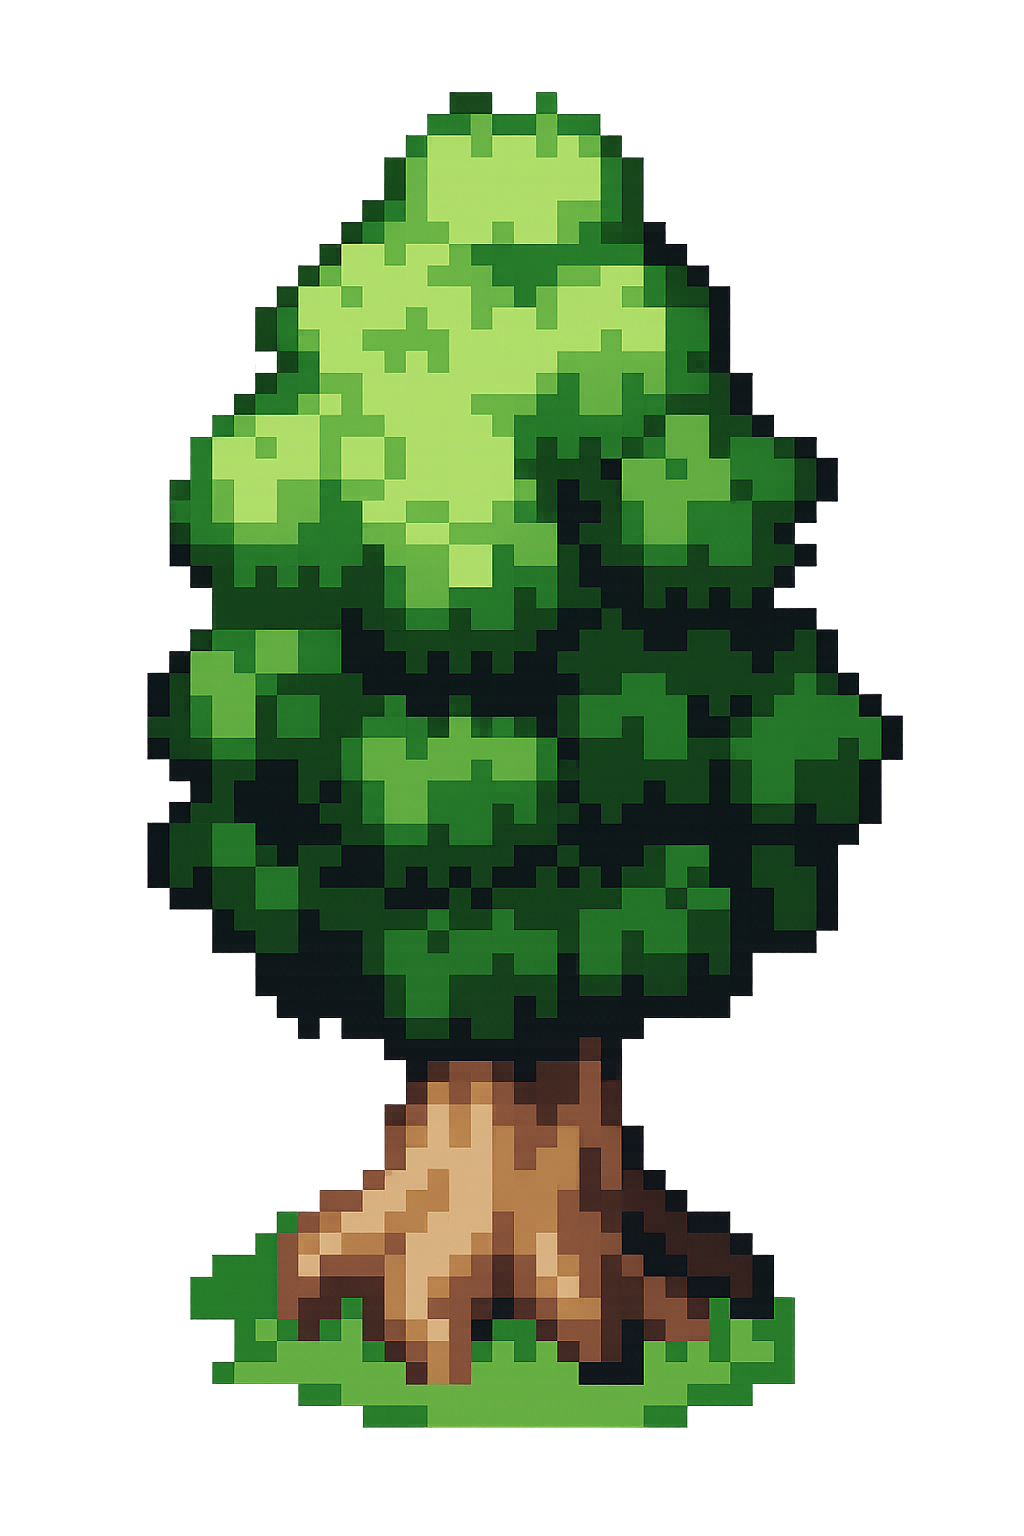
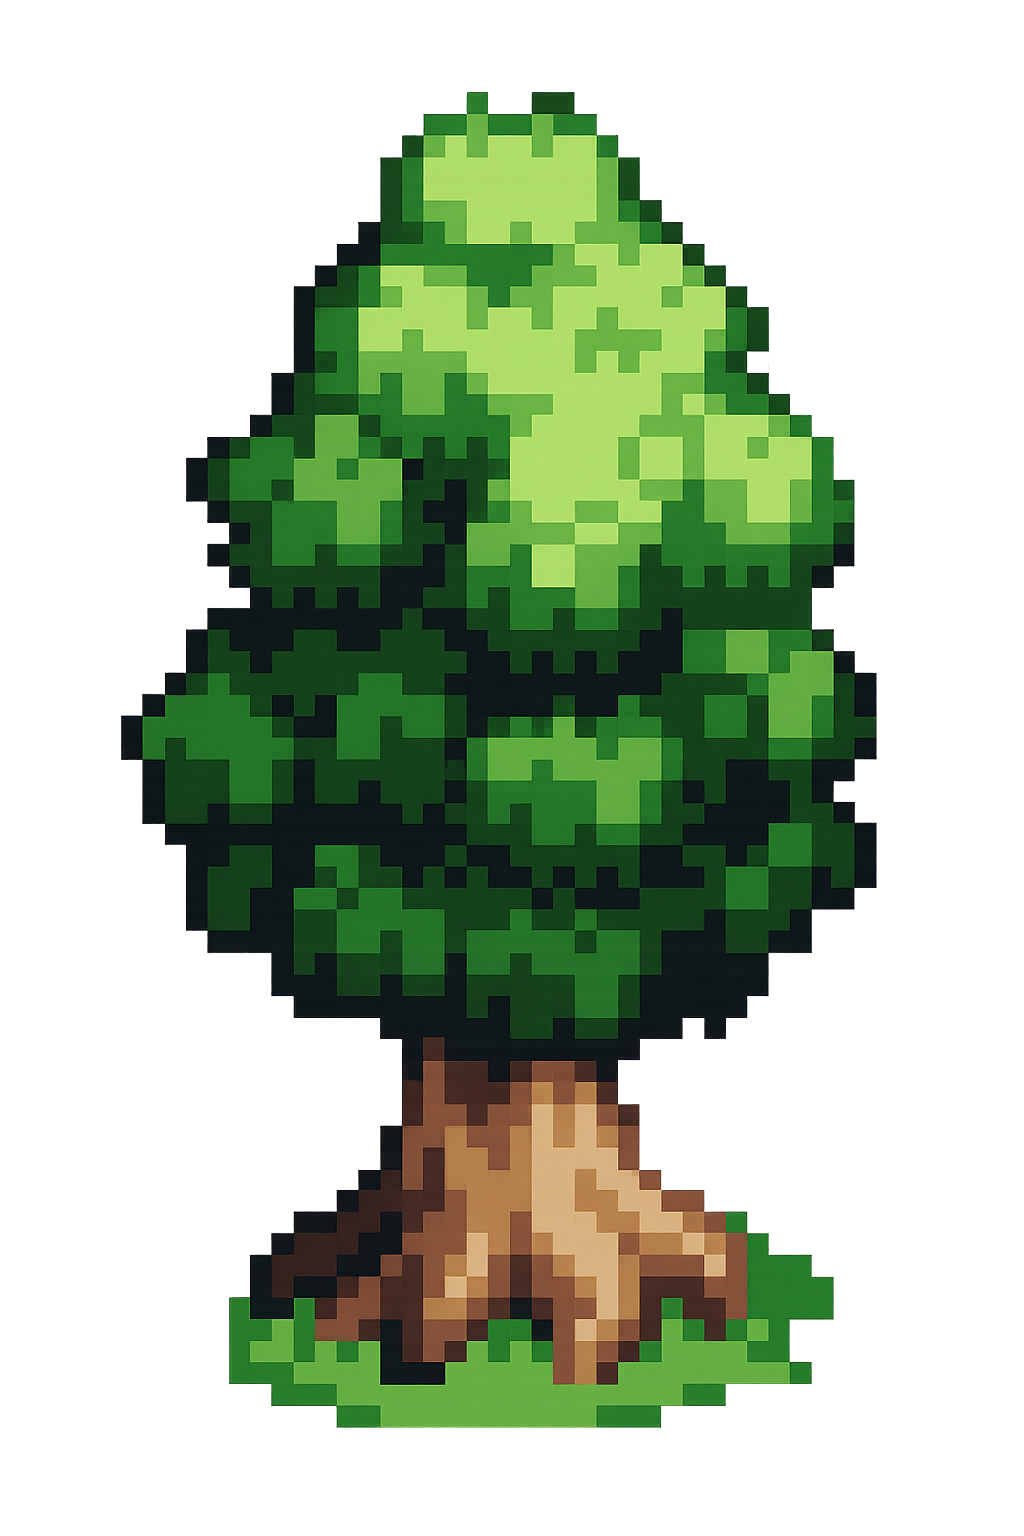
[FE] feat: home setting

diff --git a/cocos-forest-fe/cocosforest/src/screens/HomeScreen.tsx b/cocos-forest-fe/cocosforest/src/screens/HomeScreen.tsx
@@ -1,16 +1,8 @@
 import React, { useMemo, useState, useCallback } from "react";
-import {
-  View,
-  Text,
-  StyleSheet,
-  Modal,
-  Pressable,
-  Image,
-  GestureResponderEvent,
-} from "react-native";
-import Svg, { Path } from "react-native-svg"; // 1. SVG import
+import { View, Text, StyleSheet, Modal, Pressable, Image } from "react-native";
+import Svg, { Path } from "react-native-svg";
 
-type Cell = { x: number; z: number; sx: number; sy: number; path: string }; // 윗면 Path 추가
+type Cell = { x: number; z: number; sx: number; sy: number; path: string };
 type Marker = { x: number; z: number; sx: number; sy: number };
 
 const GRID = 8;
@@ -23,29 +15,25 @@ const TOP_FACE_H = 32;
 const MARKER_SIZE = 64;
 const MARKER_IMG = require("../../assets/models/tree.png");
 const CUBE_IMG = require("../../assets/tiles/grass.png");
+const COCO_IMG = require("../../assets/coco.png");
 
-// 등각 투영 (바닥 중심 기준)
+// Convert grid (x,z) to isometric screen (sx,sy)
 function toScreen(x: number, z: number, centerX: number, topMargin: number) {
   const sx = (x - z) * (SPRITE_W / 2) + centerX;
   const sy = (x + z) * (FOOT_H / 2) + topMargin;
   return { sx, sy };
 }
 
-// 큐브 윗면 꼭짓점 좌표 계산 (수정)
+// Compute top face vertices for hit area path
 function getTopFaceVertices(sx: number, sy: number) {
   const halfW = SPRITE_W / 2;
-  const halfH = TOP_FACE_H / 2; // TOP_FACE_H 사용
-
-  // 바닥 중심에서 윗면 다이아 중심까지의 상대 Y좌표를 다시 계산합니다.
-  // 이 부분이 가장 중요합니다.
-  // 큐브 이미지의 윗면은 'sy - FOOT_H/2 - WALL_H'에 위치하며,
-  // 윗면 다이아의 중심은 이 Y좌표에서 TOP_FACE_H/2만큼 아래에 있습니다.
+  const halfH = TOP_FACE_H / 2;
   const topFaceCenterY = sy - FOOT_H / 2 - WALL_H + halfH;
 
-  const top = [sx, topFaceCenterY - halfH]; // 위쪽 끝
-  const right = [sx + halfW, topFaceCenterY]; // 오른쪽 끝
-  const bottom = [sx, topFaceCenterY + halfH]; // 아래쪽 끝
-  const left = [sx - halfW, topFaceCenterY]; // 왼쪽 끝
+  const top = [sx, topFaceCenterY - halfH];
+  const right = [sx + halfW, topFaceCenterY];
+  const bottom = [sx, topFaceCenterY + halfH];
+  const left = [sx - halfW, topFaceCenterY];
 
   return [top, right, bottom, left];
 }
@@ -64,14 +52,12 @@ const HomeScreen = () => {
   const boardHeight = (GRID - 1 + GRID - 1) * (FOOT_H / 2) + FOOT_H + WALL_H;
   const topMargin = Math.max(12, (layout.h - boardHeight) / 2);
 
-  // 타일 배치(뒤→앞 페인터스)
   const cells = useMemo<Cell[]>(() => {
     const arr: Cell[] = [];
     for (let z = 0; z < GRID; z++) {
       for (let x = 0; x < GRID; x++) {
         const { sx, sy } = toScreen(x, z, centerX, topMargin);
         const vertices = getTopFaceVertices(sx, sy);
-        // SVG Path 데이터 생성: M(move) L(line) ... Z(close)
         const path = `M${vertices[0][0]} ${vertices[0][1]} L${vertices[1][0]} ${vertices[1][1]} L${vertices[2][0]} ${vertices[2][1]} L${vertices[3][0]} ${vertices[3][1]} Z`;
         arr.push({ x, z, sx, sy, path });
       }
@@ -101,8 +87,11 @@ const HomeScreen = () => {
 
   const [selected, setSelected] = useState<Cell | null>(null);
   const [visible, setVisible] = useState(false);
+  // Test toggle for hitbox (checkbox area) visibility
+  const [showHitbox, setShowHitbox] = useState(true);
+  // Coco speech bubble toggle
+  const [showCocoTip, setShowCocoTip] = useState(false);
 
-  // 개별 큐브 터치 처리 함수
   const handleCubePress = useCallback((cell: Cell) => {
     setSelected(cell);
     setVisible(true);
@@ -114,6 +103,41 @@ const HomeScreen = () => {
 
   return (
     <View style={styles.container}>
+      {/* Info bar under header (hard-coded) */}
+      <View style={styles.infoBar}>
+        <View style={styles.infoBlock}>
+          <Text style={styles.infoLabel}>보유 포인트</Text>
+          <Text style={styles.infoValue}>12,345 P</Text>
+        </View>
+        <View style={styles.infoDivider} />
+        <View style={styles.infoBlock}>
+          <Text style={styles.infoLabel}>숲 성장률</Text>
+          <Text style={[styles.infoValue, styles.growthValue]}>73%</Text>
+        </View>
+      </View>
+
+      {/* Coco character button + speech bubble */}
+      <View style={styles.cocoRow}>
+        <Pressable
+          onPress={() => setShowCocoTip((v) => !v)}
+          style={styles.cocoBtn}
+          accessibilityLabel="코코 말풍선 토글"
+        >
+          <Image source={COCO_IMG} style={styles.cocoImg} />
+        </Pressable>
+        {showCocoTip && (
+          <View style={styles.bubbleWrap}>
+            <View style={styles.bubble}>
+              <Text style={styles.bubbleText}>
+                음식물 쓰레기를 줄이면 메탄가스 배출을 크게 감소시킬 수 있어요!
+                🥬
+              </Text>
+            </View>
+            <View style={styles.bubbleTail} />
+          </View>
+        )}
+      </View>
+
       <View style={styles.board} onLayout={onLayout}>
         {cells.map((c) => (
           <Image
@@ -122,7 +146,6 @@ const HomeScreen = () => {
             style={{
               position: "absolute",
               left: c.sx - SPRITE_W / 2,
-              // TOP_FACE_H 만큼 아래로 이동 (Y 좌표 증가)
               top: c.sy - FOOT_H / 2 - WALL_H - TOP_FACE_H / 2,
               width: SPRITE_W,
               height: FOOT_H + WALL_H,
@@ -132,7 +155,7 @@ const HomeScreen = () => {
           />
         ))}
 
-        {/* 마커도 터치 통과 */}
+        {/* Marker images */}
         {markers.map((m) => (
           <Image
             key={`marker-${m.x}-${m.z}`}
@@ -149,17 +172,18 @@ const HomeScreen = () => {
           />
         ))}
 
-        {/* SVG 터치 레이어: 각 큐브의 윗면(마름모)에 정확히 일치하는 터치 박스 */}
+        {/* SVG hit areas for cubes */}
         {layout.w > 0 && (
           <Svg style={StyleSheet.absoluteFill}>
             {cells.map((c) => (
               <Path
                 key={`path-${c.x}-${c.z}`}
                 d={c.path}
-                // 터치박스를 반투명한 초록색으로 채우고, 파란색 테두리를 추가합니다.
-                fill="rgba(0, 255, 0, 0.3)" // 반투명 초록색
-                stroke="blue" // 파란색 테두리
-                strokeWidth="1"
+                fill={showHitbox ? "rgba(0, 255, 0, 0.3)" : "#00FF00"}
+                fillOpacity={showHitbox ? 0.3 : 0}
+                stroke={showHitbox ? "blue" : "#000"}
+                strokeOpacity={showHitbox ? 1 : 0}
+                strokeWidth={1}
                 onPress={() => handleCubePress(c)}
               />
             ))}
@@ -167,7 +191,20 @@ const HomeScreen = () => {
         )}
       </View>
 
-      {/* 모달 */}
+      {/* Test toggle button (bottom-right) */}
+      <Pressable
+        onPress={() => setShowHitbox((v) => !v)}
+        style={[
+          styles.fab,
+          { backgroundColor: showHitbox ? "#10B981" : "#9CA3AF" },
+        ]}
+      >
+        <Text style={styles.fabText}>
+          {showHitbox ? "히트박스 ON" : "히트박스 OFF"}
+        </Text>
+      </Pressable>
+
+      {/* Modal */}
       <Modal
         visible={visible}
         transparent
@@ -176,12 +213,12 @@ const HomeScreen = () => {
       >
         <View style={styles.modalBackdrop}>
           <View style={styles.modalCard}>
-            <Text style={styles.modalTitle}>타일 정보</Text>
+            <Text style={styles.modalTitle}>셀 정보</Text>
             <Text style={styles.modalText}>
               좌표: x = {selected?.x}, z = {selected?.z}
             </Text>
             <Text style={styles.modalHint}>
-              {isMarked ? "설명: 물주기" : "설명: 나무심기"}
+              {isMarked ? "물주기" : "나무심기"}
             </Text>
             <Pressable
               style={styles.modalBtn}
@@ -197,9 +234,102 @@ const HomeScreen = () => {
 };
 
 const styles = StyleSheet.create({
-  container: { flex: 1, backgroundColor: "#0e1111" },
+  container: { flex: 1, backgroundColor: "#DCFCE7" },
   board: { flex: 1 },
 
+  // Info bar styles
+  infoBar: {
+    marginHorizontal: 16,
+    marginTop: 12,
+    marginBottom: 8,
+    paddingHorizontal: 16,
+    paddingVertical: 12,
+    backgroundColor: "#ffffff",
+    borderRadius: 12,
+    flexDirection: "row",
+    alignItems: "center",
+    justifyContent: "space-between",
+    shadowColor: "#000",
+    shadowOpacity: 0.08,
+    shadowRadius: 6,
+    shadowOffset: { width: 0, height: 2 },
+    elevation: 2,
+  },
+  infoBlock: { gap: 4, flex: 1 },
+  infoLabel: { fontSize: 13, color: "#6b7280", fontWeight: "600" },
+  infoValue: { fontSize: 18, color: "#CA8A04", fontWeight: "700" },
+  growthValue: { color: "#15803D" },
+  infoDivider: {
+    width: 1,
+    height: 24,
+    backgroundColor: "#e5e7eb",
+    marginHorizontal: 12,
+  },
+
+  // Coco row and speech bubble
+  cocoRow: {
+    flexDirection: "row",
+    alignItems: "center",
+    marginHorizontal: 16,
+    marginBottom: 8,
+    gap: 10,
+  },
+  cocoBtn: {
+    width: 44,
+    height: 44,
+    borderRadius: 22,
+    backgroundColor: "#ffffff",
+    alignItems: "center",
+    justifyContent: "center",
+    overflow: "hidden",
+    shadowColor: "#000",
+    shadowOpacity: 0.08,
+    shadowRadius: 4,
+    shadowOffset: { width: 0, height: 2 },
+    elevation: 2,
+  },
+  cocoImg: { width: 44, height: 44, resizeMode: "contain" },
+  bubbleWrap: { position: "relative", flexShrink: 1 },
+  bubble: {
+    backgroundColor: "#ffffff",
+    borderRadius: 12,
+    paddingHorizontal: 12,
+    paddingVertical: 8,
+    maxWidth: 260,
+    shadowColor: "#000",
+    shadowOpacity: 0.08,
+    shadowRadius: 4,
+    shadowOffset: { width: 0, height: 2 },
+    elevation: 2,
+  },
+  bubbleText: { color: "#111827", fontSize: 13, lineHeight: 18 },
+  bubbleTail: {
+    position: "absolute",
+    left: -6,
+    top: 16,
+    width: 12,
+    height: 12,
+    backgroundColor: "#ffffff",
+    transform: [{ rotate: "45deg" }],
+  },
+
+  // Toggle button
+  fab: {
+    position: "absolute",
+    right: 16,
+    bottom: 16,
+    paddingHorizontal: 12,
+    paddingVertical: 8,
+    borderRadius: 9999,
+    shadowColor: "#000",
+    shadowOpacity: 0.15,
+    shadowRadius: 4,
+    shadowOffset: { width: 0, height: 2 },
+    elevation: 3,
+  },
+  fabText: { color: "#fff", fontWeight: "700", fontSize: 12 },
+
+  // Modal styles
   modalBackdrop: {
     flex: 1,
     backgroundColor: "rgba(0,0,0,0.45)",
